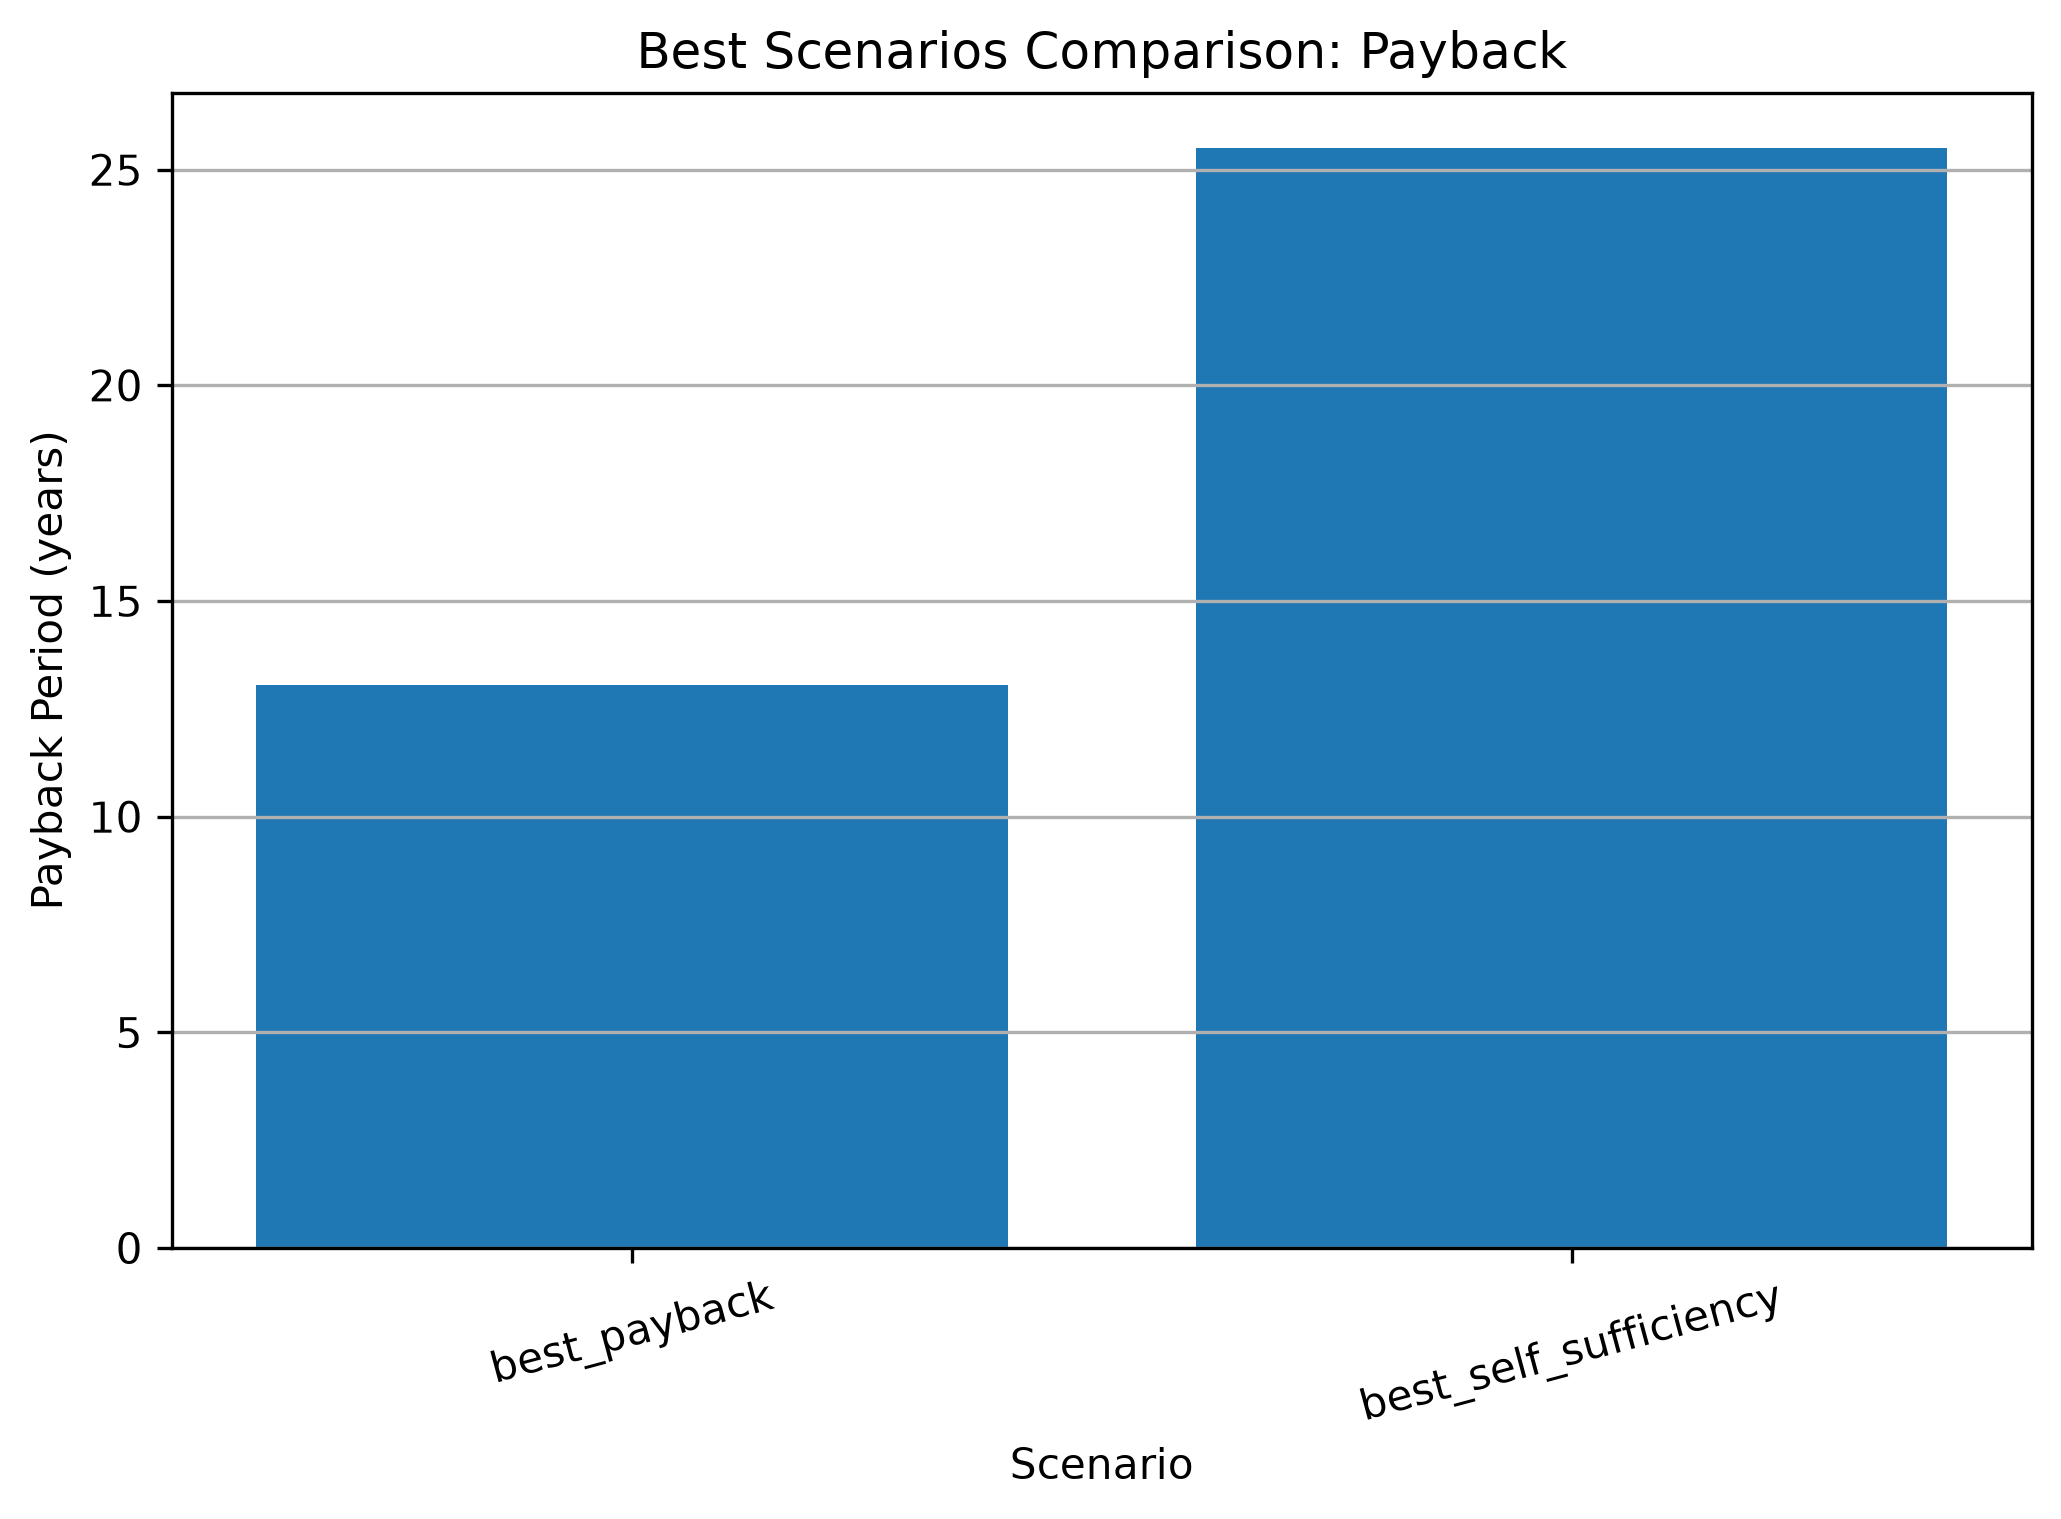
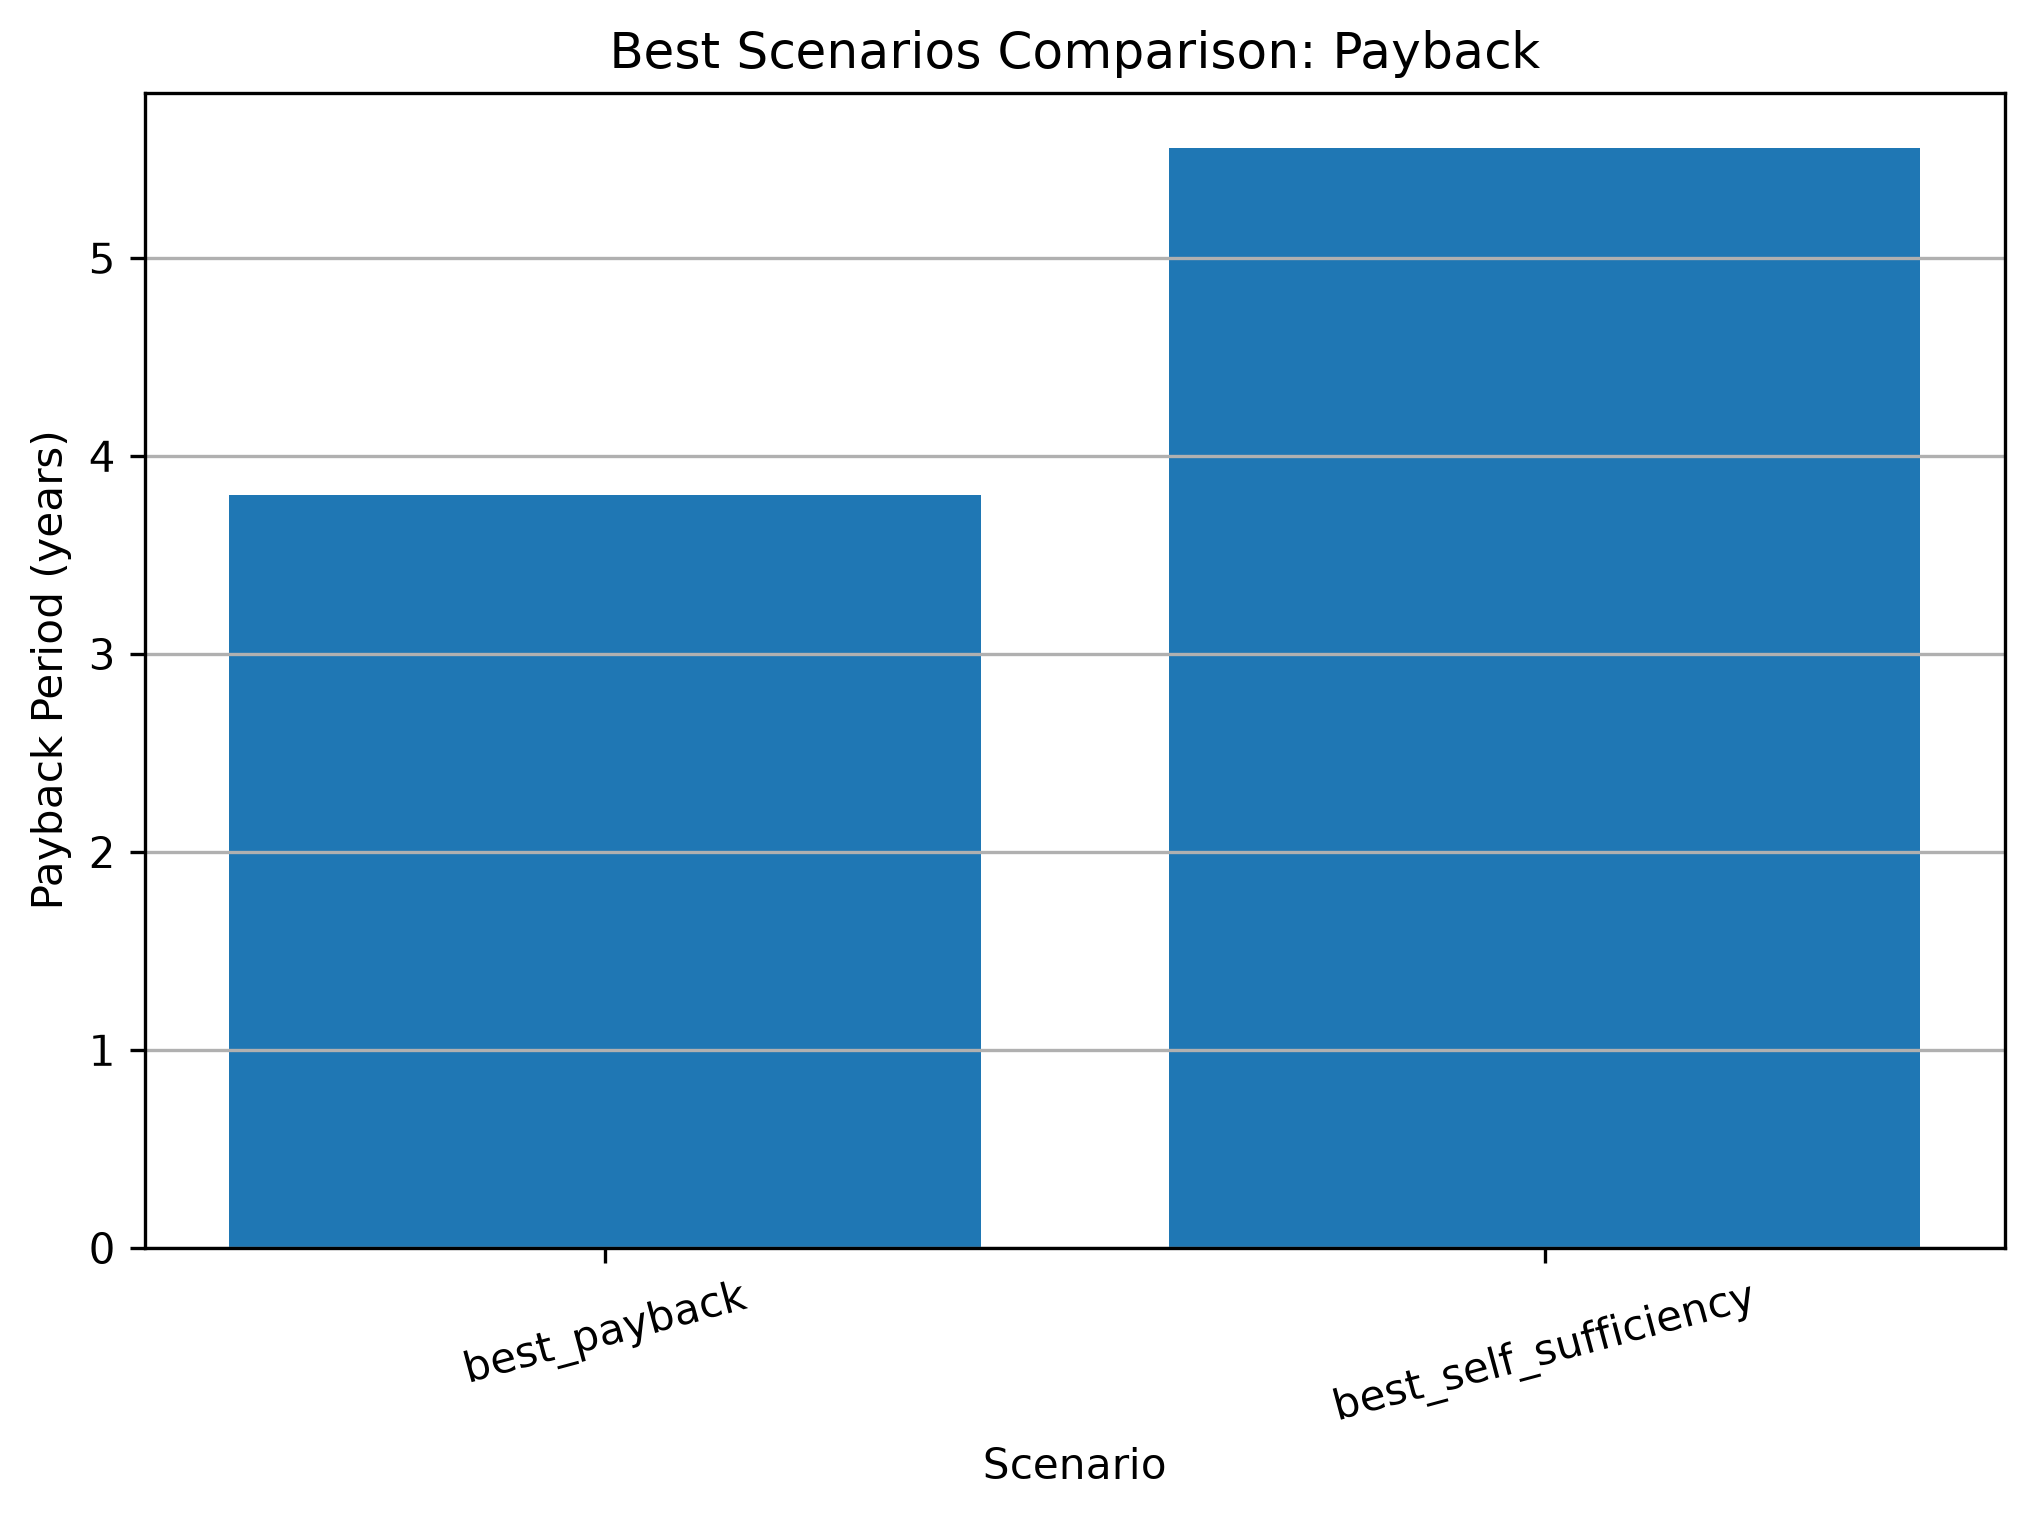
Allow selecting project scenarios at runtime

diff --git a/tests/test_config_scenario_selection.py b/tests/test_config_scenario_selection.py
@@ -1,0 +1,54 @@
+import os
+import subprocess
+import sys
+
+
+def run_config_check(
+    scenario_name: str,
+) -> str:
+    environment = os.environ.copy()
+
+    environment["PROJECT_SCENARIO"] = (
+        scenario_name
+    )
+
+    environment["PYTHONPATH"] = "src"
+
+    result = subprocess.run(
+        [
+            sys.executable,
+            "-c",
+            (
+                "import config; "
+                "print(config.ACTIVE_PROJECT_SCENARIO_NAME); "
+                "print(config.ACTIVE_PROJECT_SCENARIO.price_mode); "
+                "print(config.USE_HOURLY_PRICE_DATA)"
+            ),
+        ],
+        check=True,
+        capture_output=True,
+        text=True,
+        env=environment,
+    )
+
+    return result.stdout
+
+
+def test_config_loads_omie_scenario_from_environment() -> None:
+    output = run_config_check(
+        "uci_omie_june_2026"
+    )
+
+    assert "uci_omie_june_2026" in output
+    assert "wholesale_hourly" in output
+    assert "True" in output
+
+
+def test_config_loads_fixed_scenario_from_environment() -> None:
+    output = run_config_check(
+        "uci_fixed_tariff"
+    )
+
+    assert "uci_fixed_tariff" in output
+    assert "fixed" in output
+    assert "False" in output

diff --git a/src/price_mode.py b/src/price_mode.py
@@ -1,16 +1,35 @@
 def build_electricity_price_mode_description(
-    use_hourly_price_data: bool,
-    hourly_price_data_path: str,
+    price_mode: str,
+    hourly_price_data_path: str | None,
     tariff_profile_name: str,
 ) -> str:
-    if use_hourly_price_data:
+    if price_mode == "wholesale_hourly":
+        if hourly_price_data_path is None:
+            raise ValueError(
+                "Wholesale hourly price mode requires "
+                "an hourly price data path"
+            )
+
         return (
-            f"Hourly electricity prices ({hourly_price_data_path}); "
-            "fixed power cost and surplus compensation from tariff profile "
+            f"Hourly wholesale electricity prices "
+            f"({hourly_price_data_path}); "
+            "fixed power cost and surplus compensation "
+            "from tariff profile "
             f"'{tariff_profile_name}'"
         )
 
-    return (
-        "Time-of-use electricity prices from tariff profile "
-        f"'{tariff_profile_name}'"
+    if price_mode == "fixed":
+        return (
+            "Fixed electricity price from tariff profile "
+            f"'{tariff_profile_name}'"
+        )
+
+    if price_mode == "time_of_use":
+        return (
+            "Time-of-use electricity prices from tariff profile "
+            f"'{tariff_profile_name}'"
+        )
+
+    raise ValueError(
+        f"Invalid electricity price mode: {price_mode}"
     )

diff --git a/src/config.py b/src/config.py
@@ -1,8 +1,15 @@
-from scenario_registry import get_project_scenario
+import os
+from scenario_registry import(
+    DEFAULT_PROJECT_SCENARIO_NAME,
+    get_project_scenario
+)
 
 
 # Active reproducible project scenario
-ACTIVE_PROJECT_SCENARIO_NAME = "uci_omie_june_2026"
+ACTIVE_PROJECT_SCENARIO_NAME = os.getenv(
+    "PROJECT_SCENARIO",
+    DEFAULT_PROJECT_SCENARIO_NAME,
+)
 
 ACTIVE_PROJECT_SCENARIO = get_project_scenario(
     ACTIVE_PROJECT_SCENARIO_NAME

diff --git a/tests/test_scenario_registry.py b/tests/test_scenario_registry.py
@@ -46,3 +46,10 @@ def test_unknown_project_scenario_raises_error() -> None:
         get_project_scenario(
             "does_not_exist"
         )
+
+def test_default_project_scenario_name_is_registered() -> None:
+    scenario = get_project_scenario(
+        DEFAULT_PROJECT_SCENARIO_NAME
+    )
+
+    assert scenario.name == DEFAULT_PROJECT_SCENARIO_NAME

diff --git a/scripts/generate_config_summary.py b/scripts/generate_config_summary.py
@@ -18,7 +18,7 @@ def build_configuration_summary() -> str:
     active_tariff = config.get_active_tariff_profile()
 
     electricity_price_mode = build_electricity_price_mode_description(
-        use_hourly_price_data=config.USE_HOURLY_PRICE_DATA,
+        use_hourly_price_data=config.ACTIVE_PROJECT_SCENARIO.price_mode,
         hourly_price_data_path=config.HOURLY_PRICE_DATA_PATH,
         tariff_profile_name=config.ACTIVE_TARIFF_PROFILE,
     )

diff --git a/scripts/run_forecast_optimization.py b/scripts/run_forecast_optimization.py
@@ -75,7 +75,7 @@ def main() -> None:
 
     electricity_price_mode = (
         build_electricity_price_mode_description(
-            use_hourly_price_data=config.USE_HOURLY_PRICE_DATA,
+            use_hourly_price_data=config.ACTIVE_PROJECT_SCENARIO.price_mode,
             hourly_price_data_path=config.HOURLY_PRICE_DATA_PATH,
             tariff_profile_name=config.ACTIVE_TARIFF_PROFILE,
         )

diff --git a/src/main.py b/src/main.py
@@ -102,7 +102,7 @@ def main() -> None:
         )
 
     electricity_price_mode = build_electricity_price_mode_description(
-        use_hourly_price_data=config.USE_HOURLY_PRICE_DATA,
+        use_hourly_price_data=config.ACTIVE_PROJECT_SCENARIO.price_mode,
         hourly_price_data_path=config.HOURLY_PRICE_DATA_PATH,
         tariff_profile_name=config.ACTIVE_TARIFF_PROFILE
     )

diff --git a/reports/outputs_index.md b/reports/outputs_index.md
@@ -2,7 +2,7 @@
 
 Solar data source: PVGIS solar data (data/raw/pvgis_hourly_linares_1kw_2020.csv)
 
-Electricity price mode: Hourly electricity prices (data/processed/omie_hourly_prices.csv); fixed power cost and surplus compensation from tariff profile 'spanish_2_0td_example'
+Electricity price mode: Time-of-use electricity prices from tariff profile 'flat_price'
 
 This folder contains the generated reports from the electricity consumption solar optimizer.
 